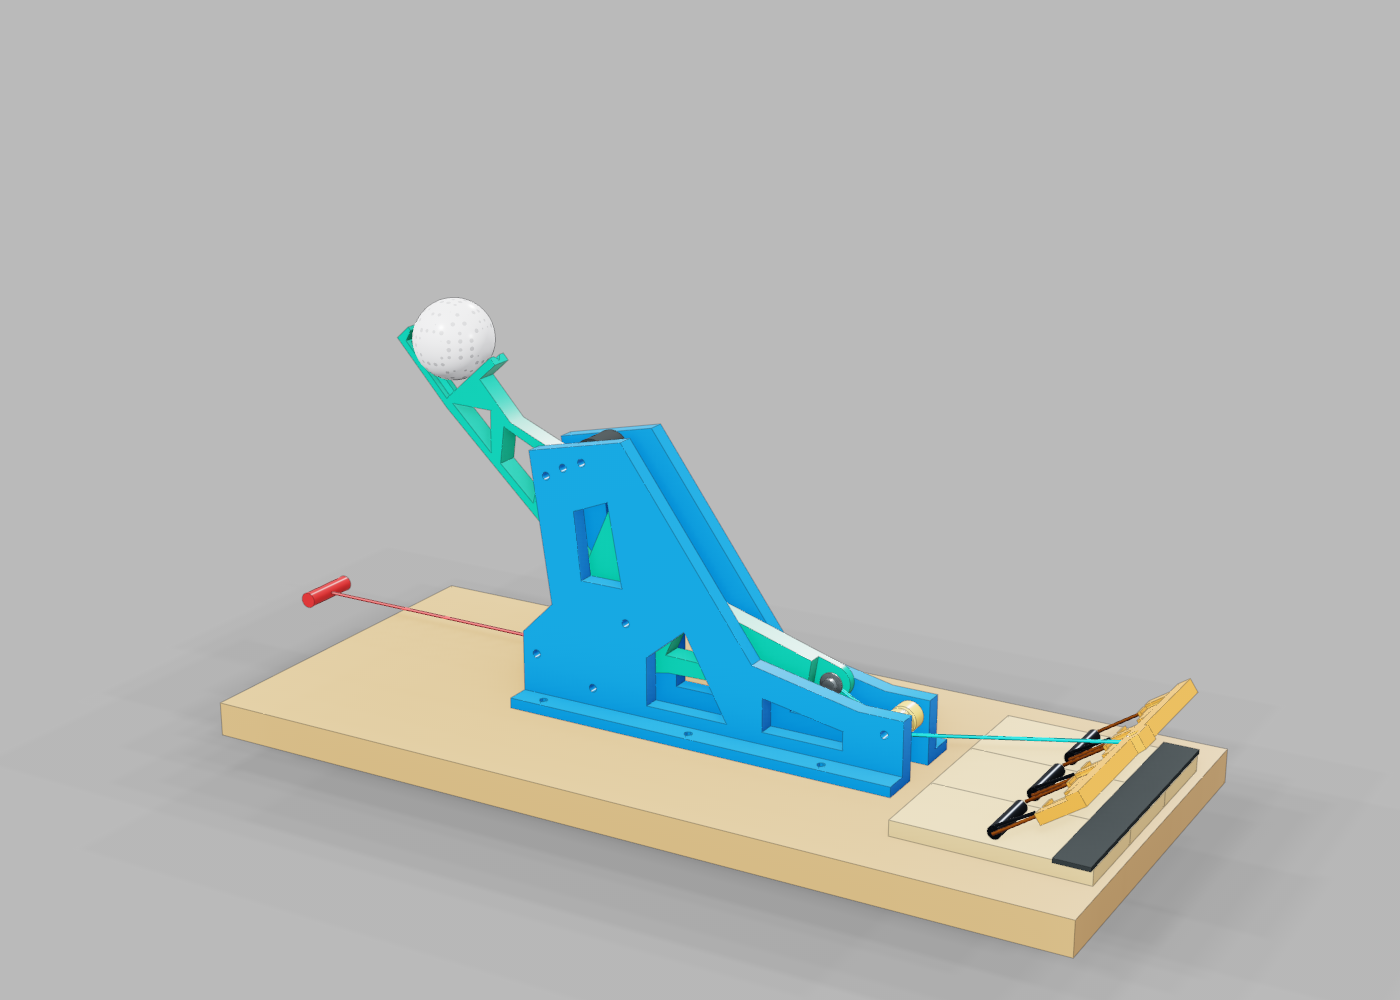
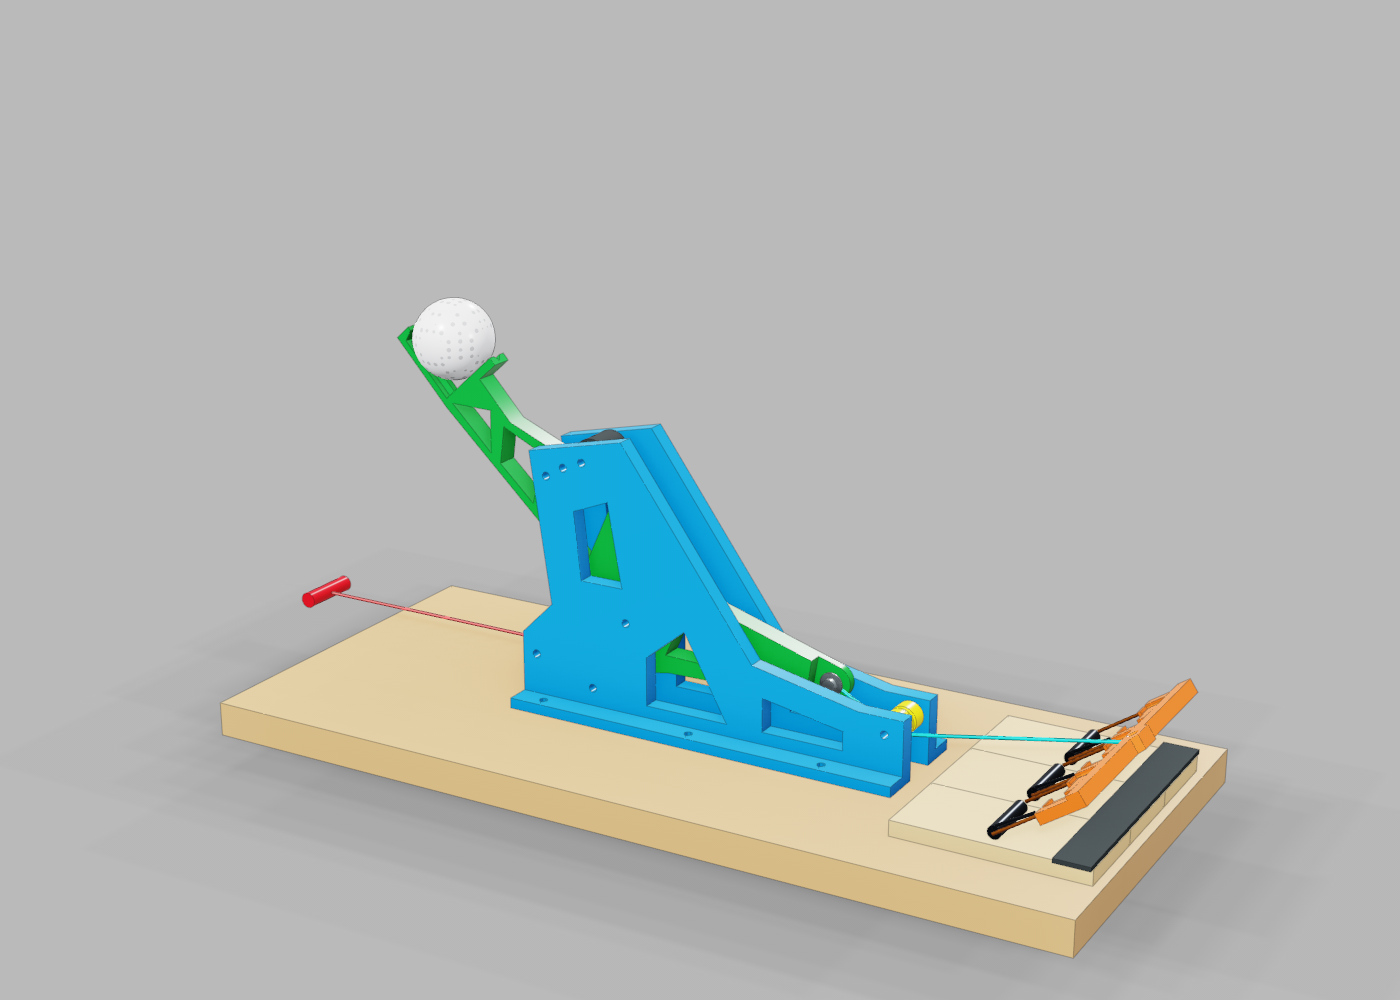
Sync README/design_notes v5.1 details, Bambu-colored static hero PNGs, and 1k7hhp/3dviewer links

diff --git a/README.md b/README.md
@@ -1,4 +1,4 @@
-# MTC-180 (`v5` Floor-Flush) — Rubric-Compliant 3-Mousetrap Cord-Driven Golf-Ball Catapult
+# MTC-180 (`v5.1` Floor-Flush) — Rubric-Compliant 3-Mousetrap Cord-Driven Golf-Ball Catapult
 
 ![Complete Floor-Flush Launch Sequence: Rear Pull-String -> Gravity Sear -> Bail Stroke -> 42° CoP Stop & Golf Ball Trajectory](docs/images/mtc180_floorflush_launch.gif)
 
@@ -19,7 +19,7 @@ Parametric [Cadpole](https://github.com/halbritt/cadpole) CAD and [CalculiX 2.23
 
 A second, simpler build that shares the same base, flat traps and `mtc180_bail_coupler`: instead of the cord, horn arm, pivot and stanchions, a 32 g rail arm (`cad/direct_arm.star`) bolts directly onto the coupler's flat driven face with the same six `M4` screws (use `M4 × 10` instead of `× 6–8`).
 
-**Why it is not a cup.** With the traps flat on a floor-flush base the arm can only swing in the half-plane above the floor. A ball held rigidly on such an arm is moving *upward* only while the arm is behind vertical, so it must be released in roughly the first 60° of the 166° stroke; in the model that tops out near 2.3 m. This arm instead lets the ball **roll outward along two rails** while the bails swing. The outward speed adds to the tangential speed, so the ball leaves the tip heading about 34° upward when the arm is vertical, after about 85° of stroke. In the models the ball gets about 0.8 J here against about 1.0 J from the cord-and-horn arm, so expect roughly 75% of that design's `~4.8 m` carry.
+**Why it is not a cup.** With the traps flat on a floor-flush base the arm can only swing in the half-plane above the floor. A ball held rigidly on such an arm is moving *upward* only while the arm is behind vertical, so it must be released in roughly the first 60° of the 166° stroke; in the model that tops out near 2.3 m. This arm instead lets the ball **roll outward along two rails** while the bails swing. The outward speed adds to the tangential speed, so the ball leaves the tip heading about 34° upward when the arm is vertical, after about 85° of stroke. In the models the ball gets about 0.8 J here against about 1.1 J from the cord-and-horn arm, so expect roughly 70% of that design's `~5.1 m` carry.
 
 | Backstop hole | Ball start radius | Release (arm angle / elevation / speed) | Model carry (rolling) | Carry if the ball slides | Carry at −20% / +20% spring energy |
 | --- | --- | --- | --- | --- | --- |
@@ -43,20 +43,21 @@ A second, simpler build that shares the same base, flat traps and `mtc180_bail_c
 ## Repository Layout & Verification Commands
 
 - `cad/bail_coupler.star` & `cad/print_bail_coupler.star` — Spring-cleared (`X >= 28.5 mm`) driven-side 3-bail coupler (`16.28 cm³` CAD, `6× M4` washer locks).
-- `cad/throwing_arm.star` & `cad/print_throwing_arm.star` — Monolithic throwing arm (cord horn with `M4` cord post + `6-notch` sear quadrant + self-centering `45°` V-cup + centrifugal backstop).
-- `cad/stanchion_trigger.star` & `cad/print_stanchion_kit.star` — Left/right mirrored A-frame stanchions (`42°/50°` CoP stop holes), stop sleeve, `M4` V-roller, and counterweighted gravity sear pawl.
+- `cad/throwing_arm.star` & `cad/print_throwing_arm.star` — `12 mm` monolithic throwing arm (through-bolted `M4 × 16` cord horn + `6-notch` sear quadrant + self-centering `45°` V-cup + centrifugal backstop).
+- `cad/stanchion_trigger.star` & `cad/print_stanchion_kit.star` — Left/right mirrored A-frame stanchions (`42°/50°/58°` CoP stop holes), stop sleeve, `M4` V-roller, and counterweighted gravity sear pawl.
 - `cad/linkage.star` — Exact drive-cord kinematics (eye → roller → horn post) shared by the assembly.
-- `cad/installed_floorflush.star` — Full 8-pose rubric, cord-path & `IMG_4479` spring-clearance test suite + 64-frame launch animation.
+- `cad/installed_floorflush.star` — Full 8-pose launch + 6-notch sear, `< 3"` rubric, cord-path & `IMG_4479` spring-clearance test suite + 64-frame launch animation.
 - `analysis/cam_launch_sim.py` — Launch model for the cord linkage (taut/slack cord, bail and arm inertia); prints the range table.
 - `cad/direct_arm.star`, `cad/direct_trigger.star`, `cad/installed_direct.star`, `analysis/direct_arm_sim.py` — Direct-drive rail-arm alternative (arm bolted to the coupler) and its launch model.
 - `fea/run_floorflush_fea.py` — CalculiX 2.23 `C3D8I` two-phase FDM (`PETG_SHELL` + `PETG_GYROID15`) solver.
 
 ```sh
-mise run test       # Run all 11 Cadpole H2S 3-nozzle printability, spring-clearance (>2mm), and rubric checks
-mise run export     # Rebuild exports/*.stl, *.3mf, *.pdf, *.svg
-mise run animate    # Rebuild 64-frame floor-flush animated launch GIF
+mise run test       # Run all 29 Cadpole H2S 3-nozzle printability, 6-notch sear, spring-clearance (>2mm), and rubric checks
+mise run export     # Rebuild exports/*.stl, *.3mf, *.pdf, *.svg (and exports/direct/*)
+mise run animate    # Rebuild both 64-frame floor-flush and direct-drive animated launch GIFs
 mise run fea        # Run CalculiX 2.23 C3D8I two-phase FDM stress & inertia study
 mise run camsim     # Cord-linkage launch model: range table and sensitivities (--cam 96.5 --th-cock 156 = the old cam)
+mise run sim        # Direct-drive 2-DOF rolling/sliding rail launch model across all 20 backstop positions
 ```
 
 ## CalculiX 2.23 `C3D8I` FEA (`v5.1`, `20,821` Coupler + `16,197` Arm Bricks)
@@ -86,11 +87,14 @@ mise run camsim     # Cord-linkage launch model: range table and sensitivities (
 
 ## Bambu Lab H2S Print Plates (PETG, Supports OFF, Arachne ON, 15% Gyroid)
 
+- **Download Bundle (`1k7hhp`):** [`bundle.zip`](https://artifact.harm.org/1k7hhp/_artifact/bundle.zip) · [Browse All Exports](https://artifact.harm.org/1k7hhp/_artifact/) · [Floor-Flush Launch GIF](https://artifact.harm.org/1k7hhp/mtc180_floorflush_launch.gif) · [Direct-Drive Launch GIF](https://artifact.harm.org/1k7hhp/direct/mtc180_direct_launch.gif)
+- **Interactive 3D Viewer (`v5.1`):** [Full Assembly](https://3dviewer.harm.org/#model=https://3dviewer.harm.org/models/zbhr5x/mtc180_floorflush_assembly_v5_1.glb) · [3-Bail Coupler](https://3dviewer.harm.org/#model=https://3dviewer.harm.org/models/wvysq5/mtc180_bail_coupler_v5_1.glb) · [`12 mm` Cord-Horn Arm](https://3dviewer.harm.org/#model=https://3dviewer.harm.org/models/ru6n18/mtc180_throwing_arm_v5_1.glb) · [Stanchions + Sear Kit](https://3dviewer.harm.org/#model=https://3dviewer.harm.org/models/9dvtq1/mtc180_stanchion_kit_v5_1.glb)
+
 | Plate (`exports/*_h2s.3mf`) | Recommended Nozzle | Layer × Width | PETG Mass | Extrusion Time |
 | --- | --- | --- | --- | --- |
-| **1. `mtc180_bail_coupler` (`16.3 cm³` — Print & Test-Fit First)** | `0.6 mm` TC / `0.8 mm` TC | `0.40 × 0.88 mm` (`2` walls) | **`~12 g`** | **`~5.5 min`** |
-| **2. `mtc180_throwing_arm` (`84.8 cm³` — 12 mm Truss + Through-Bolted Horn)** | `0.6 mm` TC / `0.8 mm` TC | `0.40 × 0.88 mm` (`2` / `3` walls) | **`~49–55 g`** | **`~22 min`** |
-| **3. `mtc180_stanchion_kit` (`309.9 cm³` — 5 Parts, Centered Plate)** | `0.6 mm` TC / `0.8 mm` TC | `0.40 × 0.88 mm` (`2` walls) | **`~165 g`** | **`~70 min`** |
+| **1. [`mtc180_bail_coupler`](https://artifact.harm.org/1k7hhp/mtc180_bail_coupler_h2s.3mf?download=1) (`16.3 cm³` — Print & Test-Fit First)** | `0.6 mm` TC / `0.8 mm` TC | `0.40 × 0.88 mm` (`2` walls) | **`~12 g`** | **`~5.5 min`** |
+| **2. [`mtc180_throwing_arm`](https://artifact.harm.org/1k7hhp/mtc180_throwing_arm_h2s.3mf?download=1) (`84.8 cm³` — 12 mm Truss + Through-Bolted Horn)** | `0.6 mm` TC / `0.8 mm` TC | `0.40 × 0.88 mm` (`2` / `3` walls) | **`~49–55 g`** | **`~22 min`** |
+| **3. [`mtc180_stanchion_kit`](https://artifact.harm.org/1k7hhp/mtc180_stanchion_kit_h2s.3mf?download=1) (`309.9 cm³` — 5 Parts, Centered Plate)** | `0.6 mm` TC / `0.8 mm` TC | `0.40 × 0.88 mm` (`2` walls) | **`~165 g`** | **`~70 min`** |
 
 ## Hardware BOM (100% `M4` — Zero `M3`, Zero Rubber Bands)
 

diff --git a/docs/design_notes.md b/docs/design_notes.md
@@ -1,6 +1,6 @@
-> **v5 Floor-Flush Rubric-Compliant Release (2026-11-22):** Re-architected for strict literal compliance with *The Mousetrap Catapult* rubric (`Design #4` & `#5`: single `≤ 1"` wood base sitting 100% flush on the floor inside `2' × 2'`, all 3 Victor mousetraps laying dead flat right-side up on the base, ball starting `< 3"` above the ground, zero rubber bands, rapid `6–8 ball` reload, and Day 2 two-target range adjustability) plus `IMG_4479.jpg` torsion-spring clearance (`X_MIN = 28.5 mm` clearing the `25.7 mm` black spring leg by `> 2.8 mm`) and 100% `M4` hardware. Current build, print, and FEA details are in top-level `README.md`; sections below preserve earlier `v2–v4.1` carrier provenance.
+> **v5.1 Floor-Flush Rubric-Compliant Release (2026-11-23):** Re-architected for strict literal compliance with *The Mousetrap Catapult* rubric (`Design #4` & `#5`: single `≤ 1"` wood base sitting 100% flush on the floor inside `2' × 2'`, all 3 Victor mousetraps laying dead flat right-side up on the base, ball starting `< 3"` above the ground across Notches #6/#5/#4, zero rubber bands, rapid `6–8 ball` reload, and Day 2 two-target range adjustability via the CAD-verified 6-notch gravity sear + `42°/50°/58°` stop pins) plus `IMG_4479.jpg` torsion-spring clearance (`X_MIN = 28.5 mm` clearing the `25.7 mm` black spring leg by `> 2.8 mm`) and 100% `M4` hardware (through-bolted `M4 × 16` cord horn, `+5.0°` stop margin, `5.08 m` carry). Current build, print, and FEA details are in top-level `README.md`; sections below preserve earlier `v2–v4.1` carrier provenance.
 
-# MTC-180 Design Provenance (`v5` Floor-Flush Cam-Driven Catapult & Earlier `v2–v4.1` Direct Carriers)
+# MTC-180 Design Provenance (`v5.1` Floor-Flush Cord-Horn Catapult & Earlier `v2–v4.1` Direct Carriers)
 
 ## Printable Part & Interactive 3D Deliverables (`MTC-180L-PL` v4.1 Positive-Lock PETG)
 
